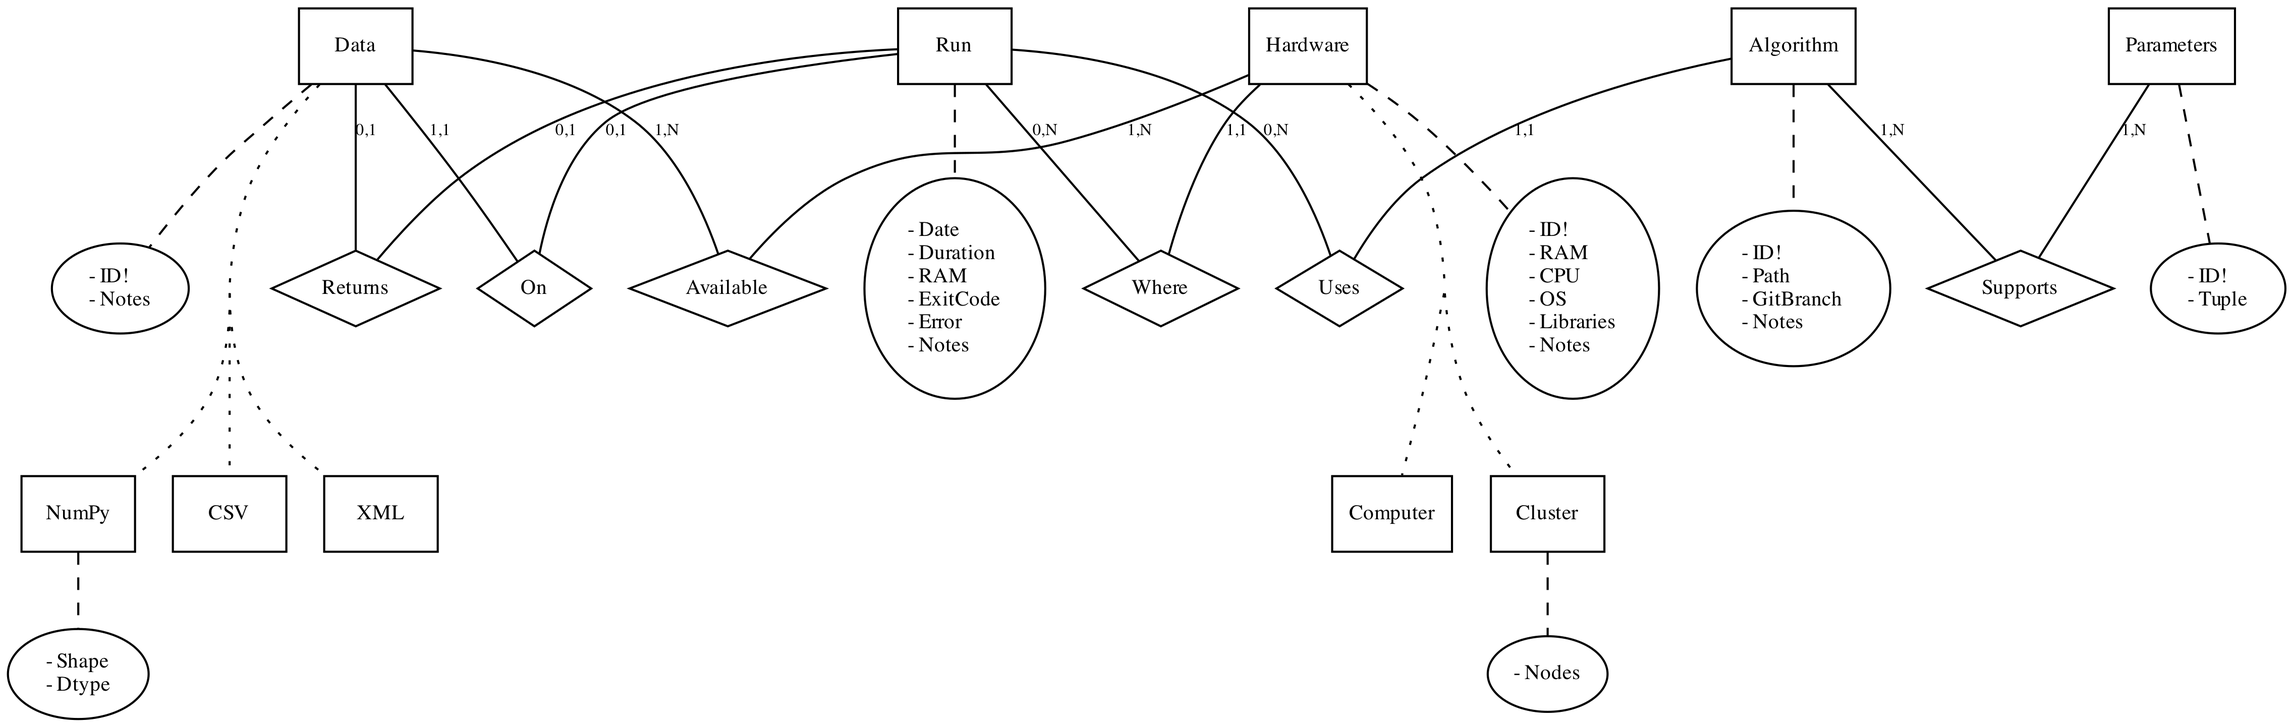
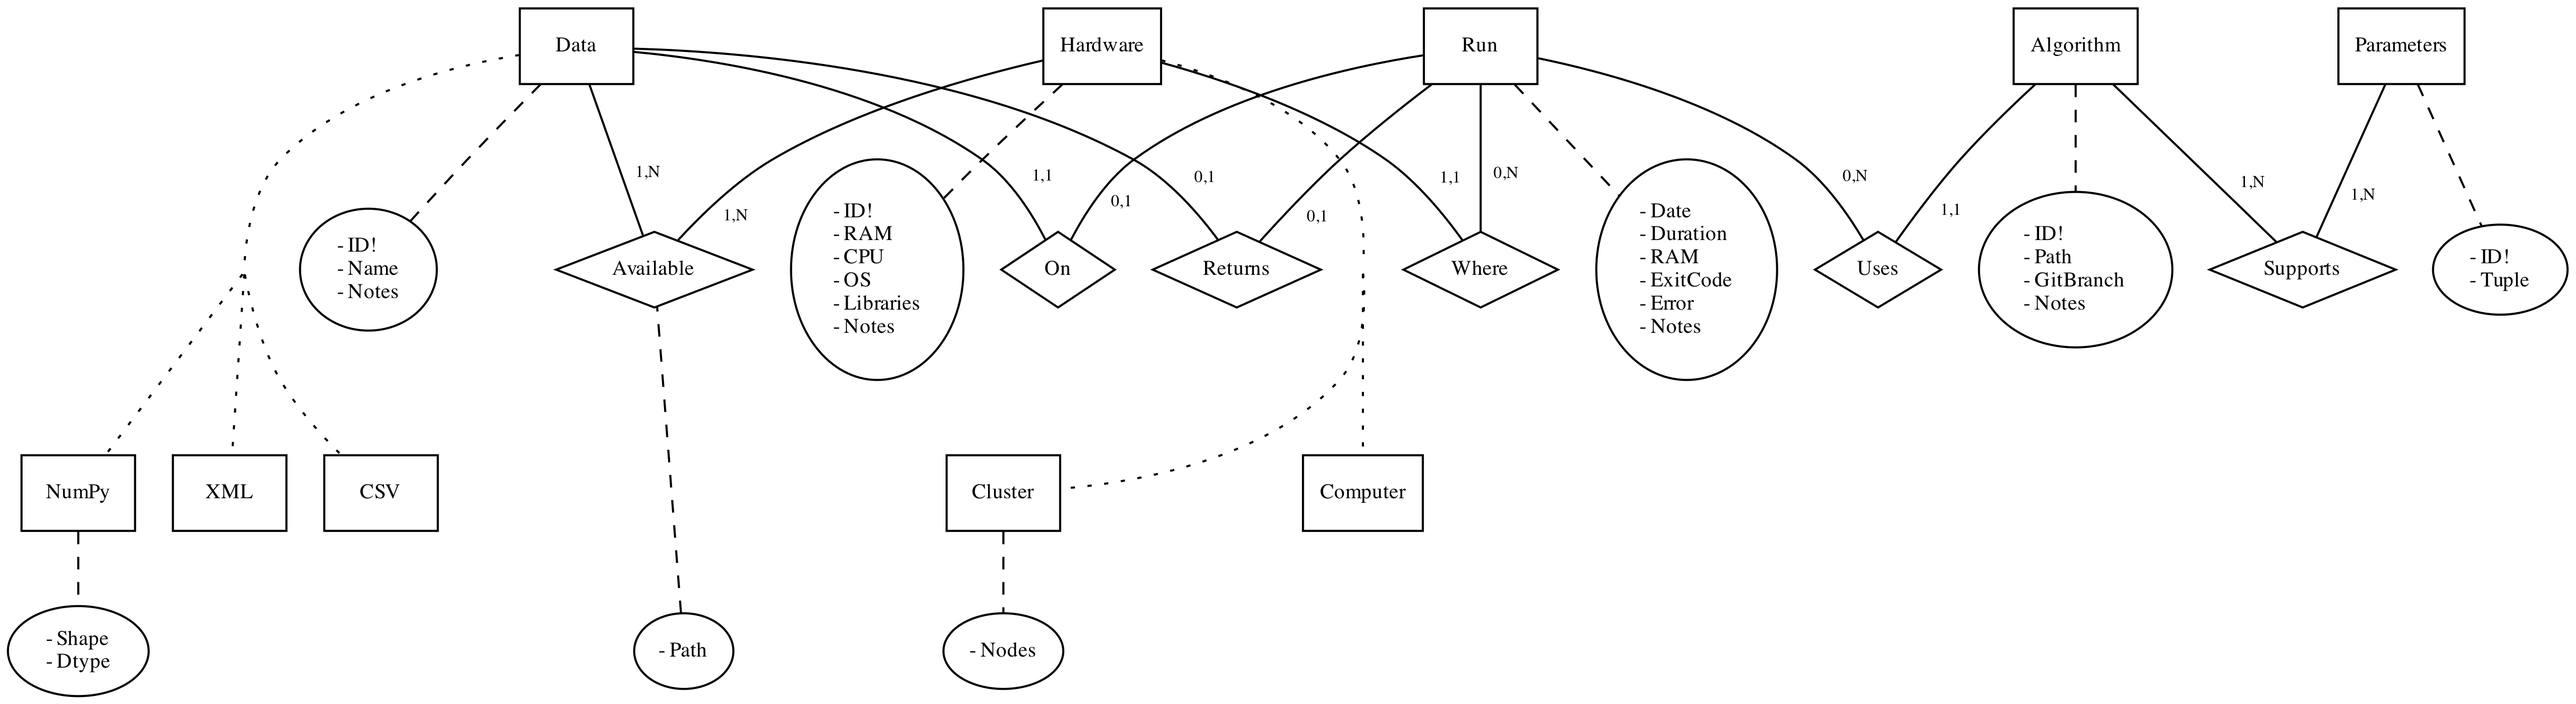
nuovi attributi

diff --git a/concettuale.py b/concettuale.py
@@ -11,23 +11,25 @@ graph = nx.Graph()
 def make_entity(label):
     graph.add_node(label, shape='rectangle', fontsize=fontsize)
 
-def make_attributes(entity, labels):
+def make_attributes(entity, labels, constraint=True):
     labels[-1] = labels[-1] + '\l'
     labels = ['- '+s for s in labels]
 
     attribute_label = '\l'.join(labels)
     graph.add_node(attribute_label, shape='oval', fontsize=fontsize,
         fixedsize=False, width=0.4)
-    graph.add_edge(entity, attribute_label, style='dashed')
+    graph.add_edge(entity, attribute_label, style='dashed', constraint=constraint)
+
+    return attribute_label
 
 relation_numbers_to_str = lambda tp: '{},{}'.format(*tp)
 
 def make_relation(label, first, second, first_relation_numbers, second_relation_numbers):
     graph.add_node(label, shape='diamond', fontsize=fontsize)
-    graph.add_edge(first, label, label=relation_numbers_to_str(first_relation_numbers),
-        fontsize=relation_numbers_fontsize)
-    graph.add_edge(label, second, label=relation_numbers_to_str(second_relation_numbers),
-        fontsize=relation_numbers_fontsize)
+    graph.add_edge(first, label, headlabel=relation_numbers_to_str(first_relation_numbers),
+        labelfontsize=relation_numbers_fontsize, labeldistance=3.0)
+    graph.add_edge(second, label, headlabel=relation_numbers_to_str(second_relation_numbers),
+        labelfontsize=relation_numbers_fontsize, labeldistance=3.0)
 
 def make_generalization(label, *generalization_names):
     graph.add_node(label + "_gen", shape='point', style='invis')
@@ -49,13 +51,14 @@ make_generalization('Data', 'NumPy', 'CSV', 'XML')
 make_generalization('Hardware', 'Cluster', 'Computer')
 
 # attributes
-make_attributes('Data', ['ID!', 'Notes'])
+make_attributes('Data', ['ID!', 'Name', 'Notes'])
 make_attributes('Run', ['Date', 'Duration', 'RAM', 'ExitCode', 'Error', 'Notes'])
 make_attributes('Hardware', ['ID!', 'RAM', 'CPU', 'OS', 'Libraries', 'Notes'])
 make_attributes('Parameters', ['ID!', 'Tuple'])
 make_attributes('Cluster', ['Nodes'])
 make_attributes('NumPy', ['Shape', 'Dtype'])
 make_attributes('Algorithm', ['ID!', 'Path', 'GitBranch', 'Notes'])
+available_label = make_attributes('Available', ['Path'], constraint=False)
 
 # relations
 make_relation('Supports', 'Parameters', 'Algorithm', (1,'N'), (1,'N'))
@@ -63,7 +66,11 @@ make_relation('Available', 'Data', 'Hardware', (1, 'N'), (1, 'N'))
 make_relation('Uses', 'Run', 'Algorithm', (0, 'N'), (1, 1))
 make_relation('On', 'Run', 'Data', (0, 1), (1, 1))
 make_relation('Where', 'Run', 'Hardware', (0, 'N'), (1, 1))
-make_relation('Returns', 'Run', 'Data', (0,1), (0,1))
+make_relation('Returns', 'Run', 'Data', (0, 1), (0, 1))
+
+# random constraints
+graph.add_edge('Data', available_label, style='invis')
+graph.add_edge('Cluster', available_label, style='invis')
 
 A = to_agraph(graph)
 A.layout('dot')
